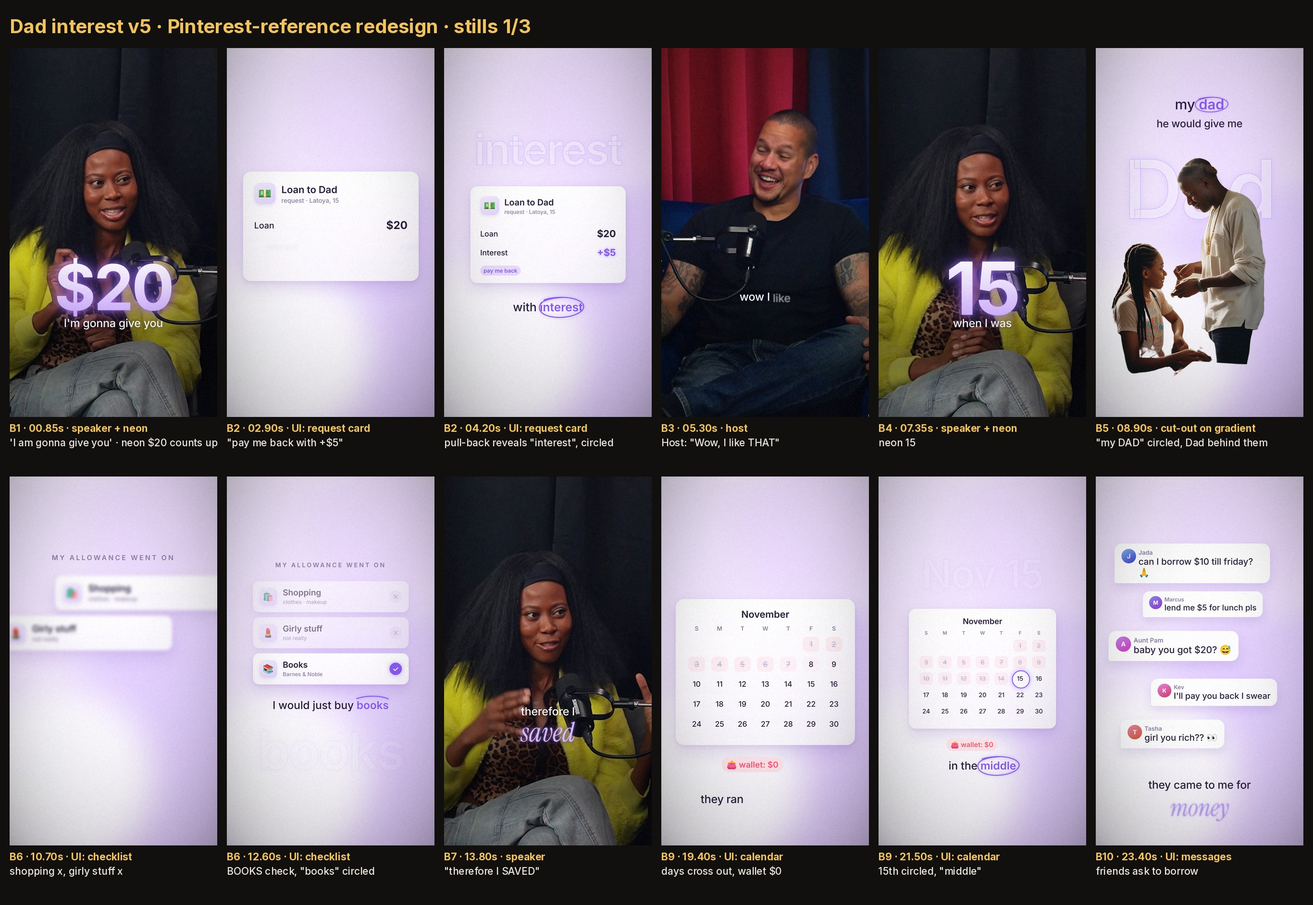
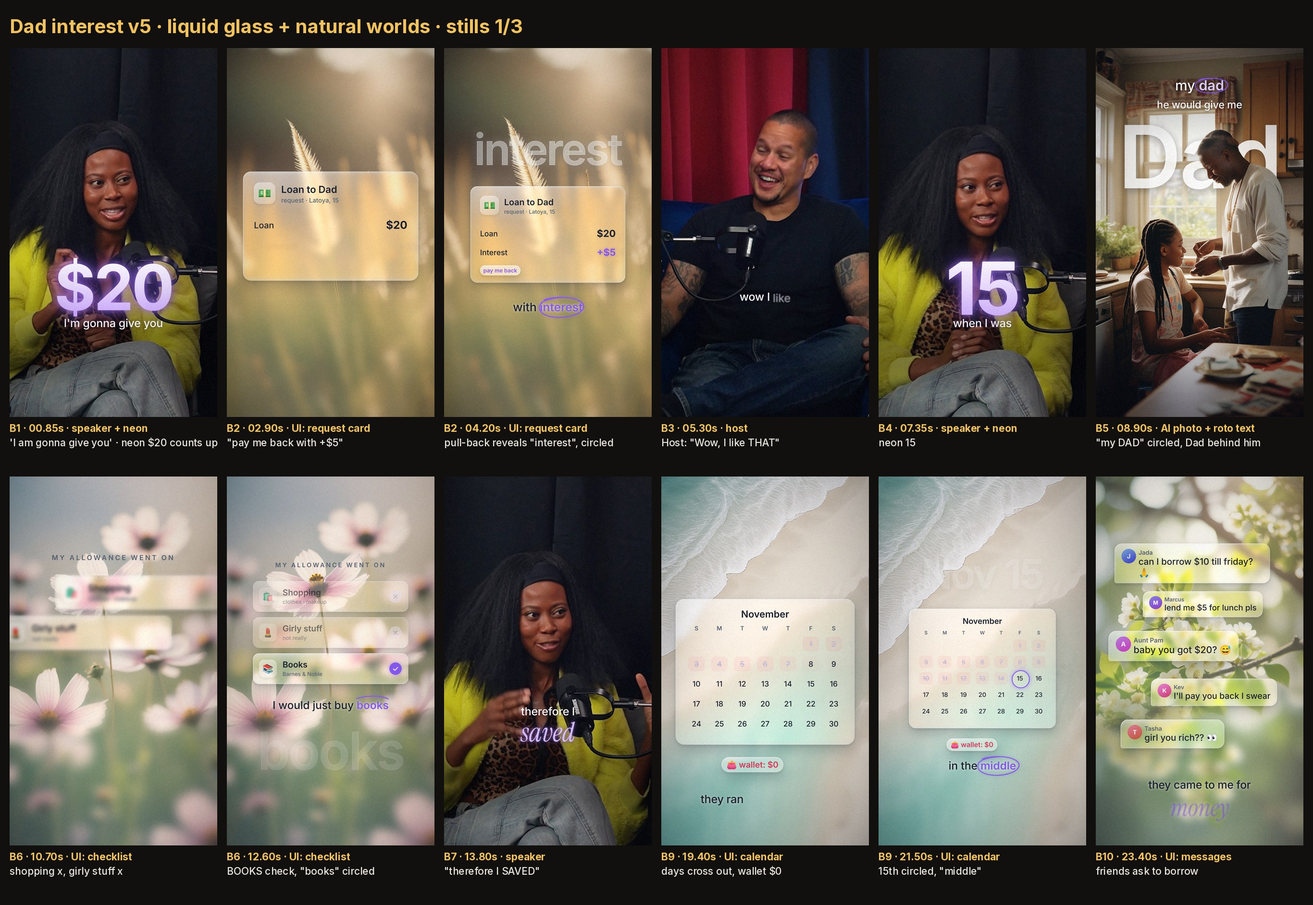
Dad interest v5.1: liquid-glass UI on natural worlds (sun/water/flowers), AI photos keep their original background with text behind the subject
Claude-Session: https://claude.ai/code/session_01Bj9t4fKydWJK4WnbPdQGjW

diff --git a/edits/dad-interest/v5/scenes_v5.js b/edits/dad-interest/v5/scenes_v5.js
@@ -6,17 +6,65 @@
 //  * a hand-drawn circle draws itself around the one keyword
 //  * over the speaker: small light captions and one glowing neon word/number
 // Helpers (el, line, reveal, chunkVis, tw, run, eo, eio, back, lerp, clamp, LEAD, mulberry) come from scenes.js / scenes2.js.
-const V = { ink: '#2A2140', soft: '#8D7FA8', faint: '#B9ABD3', violet: '#8B5CF6', violet2: '#B48CFF', lilac: '#E9DCFF', red: '#FF5A78', green: '#22B573', white: '#FFFFFF' };
+const V = { ink: '#1D2230', soft: '#5B6575', faint: '#A7B0BE', violet: '#8B5CF6', violet2: '#B48CFF', lilac: '#E9DCFF', red: '#FF5A78', green: '#22B573', white: '#FFFFFF' };
 const ex = u => { u = clamp(u); return u === 1 ? 1 : 1 - Math.pow(2, -10 * u); };          // expo-out: fast start, long soft landing
 const sio = u => 0.5 - 0.5 * Math.cos(Math.PI * clamp(u));                               // sine in-out for camera moves
 
 // ------------------------------------------------------------------ world + camera
-function world() {
-  el('div', { position: 'absolute', inset: '0', background: 'linear-gradient(165deg, #FDFBFF 0%, #F4ECFF 38%, #EADBFF 70%, #E1CCFB 100%)' });
-  const blobs = [[200, 420, 520, '#F2E6FF'], [880, 1300, 620, '#E3CFFF'], [300, 1600, 480, '#FFFFFF'], [820, 300, 420, '#EEDCFF']].map(([x, y, r, c]) =>
-    el('div', { position: 'absolute', left: x - r + 'px', top: y - r + 'px', width: 2 * r + 'px', height: 2 * r + 'px', borderRadius: '50%', background: c, filter: 'blur(90px)', opacity: '.9' }));
+// v5.1 (client notes): natural wallpapers (sun / water / flowers) instead of the lavender gradient; every white layer is liquid glass
+const NATURE = { v_request: 'sun', v_list: 'flower', v_calendar: 'water', v_msgs: 'leaves', v_loans: 'sun', v_drawer: 'flower', v_invoice: 'water', v_declined: 'water' };
+function world(bg = NATURE[NAME] || 'sun') {
+  const wall = el('img', { position: 'absolute', left: '-60px', top: '-107px', width: '1200px', height: '2134px', objectFit: 'cover', transformOrigin: '50% 45%' }); wall.src = `assets/nature/${bg}.jpg`;
+  el('div', { position: 'absolute', inset: '0', background: 'radial-gradient(120% 70% at 50% 55%, rgba(255,255,255,.10), rgba(255,255,255,0) 70%), linear-gradient(180deg, rgba(255,255,255,.06), rgba(0,0,0,.06))' });
+  const frost = 'linear-gradient(180deg, transparent 0%, #000 38%, #000 100%)';                   // soft frosted band behind the captions
+  el('div', { position: 'absolute', left: '0', right: '0', top: '1020px', bottom: '0', backdropFilter: 'blur(22px) brightness(1.12) saturate(1.1)', WebkitBackdropFilter: 'blur(22px) brightness(1.12) saturate(1.1)',
+    background: 'linear-gradient(180deg, rgba(255,255,255,0), rgba(255,255,255,.22))', maskImage: frost, WebkitMaskImage: frost });
   const cam = el('div', { position: 'absolute', left: '0', top: '0', width: '1080px', height: '1920px', transformOrigin: '540px 900px' });
-  return { cam, drift: t => blobs.forEach((b, i) => { b.style.transform = `translate(${40 * Math.sin(t * 0.5 + i * 1.7)}px, ${30 * Math.cos(t * 0.4 + i)}px)`; }) };
+  return { cam, drift: t => { wall.style.transform = `scale(${1 + 0.012 * t}) translate(${6 * Math.sin(t * 0.35)}px, ${-4 * t}px)`; } };
+}
+// photo world for the AI stills: the ORIGINAL background, the word goes behind the subject (person matte on top)
+function photoWorld(name) {
+  PHOTO = true;
+  const cam = el('div', { position: 'absolute', left: '0', top: '0', width: '1080px', height: '1920px', transformOrigin: '540px 900px' });
+  const bg = el('img', { position: 'absolute', left: '0', top: '0', width: '1080px', height: '1920px' }, cam); bg.src = `assets/photo_${name}.jpg`;
+  const back = el('div', { position: 'absolute', inset: '0' }, cam);                                     // words behind the subject
+  const fg = el('img', { position: 'absolute', left: '0', top: '0', width: '1080px', height: '1920px' }, cam); fg.src = `assets/matte_${name}.png`;
+  const scrim = el('div', { position: 'absolute', inset: '0', background: 'linear-gradient(180deg, rgba(10,8,20,.42) 0%, rgba(10,8,20,0) 26%, rgba(10,8,20,0) 70%, rgba(10,8,20,.45) 100%)' });
+  const front = el('div', { position: 'absolute', left: '0', top: '0', width: '1080px', height: '1920px', transformOrigin: '540px 900px' });  // UI + captions above
+  return { cam, back, front, drift: () => {} };
+}
+let PHOTO = false;
+const INK = () => PHOTO ? '#FFFFFF' : V.ink;
+const ISH = () => PHOTO ? '0 2px 18px rgba(10,8,20,.55)' : '0 1px 14px rgba(255,255,255,.75)';
+// ------------------------------------------------------------------ liquid glass (Apple-style): clear lens with refracted rim, specular edge, soft depth
+let GLN = 0, DEFS = null;
+function lensMap(w, h, r, edge) {
+  const k = 3, cw = Math.max(2, Math.round(w / k)), ch = Math.max(2, Math.round(h / k)), cv = document.createElement('canvas'); cv.width = cw; cv.height = ch;
+  const g = cv.getContext('2d'), im = g.createImageData(cw, ch), hw = w / 2, hh = h / 2; r = Math.min(r, hw, hh);
+  for (let j = 0; j < ch; j++) for (let i = 0; i < cw; i++) {
+    const px = (i + 0.5) * k - hw, py = (j + 0.5) * k - hh, qx = Math.abs(px) - (hw - r), qy = Math.abs(py) - (hh - r);
+    let nx, ny, d;
+    if (qx > 0 && qy > 0) { const L = Math.hypot(qx, qy) || 1; nx = qx / L * Math.sign(px); ny = qy / L * Math.sign(py); d = r - L; }
+    else if (qx > qy) { nx = Math.sign(px); ny = 0; d = r - qx; } else { nx = 0; ny = Math.sign(py); d = r - qy; }
+    const f = d < edge ? Math.pow(1 - Math.max(0, d) / edge, 2) : 0, o = (j * cw + i) * 4;
+    im.data[o] = 128 - 127 * nx * f; im.data[o + 1] = 128 - 127 * ny * f; im.data[o + 2] = 128; im.data[o + 3] = 255;
+  }
+  g.putImageData(im, 0, 0); return cv.toDataURL();
+}
+function glass(e, { r = 40, tint = 0.26, blur = 16, edge = 46, bend = 60, color = '255,255,255', glow = '' } = {}) {
+  const w = e.offsetWidth, h = e.offsetHeight, id = 'lg' + (GLN++), NS = 'http://www.w3.org/2000/svg';
+  if (!DEFS) { DEFS = document.createElementNS(NS, 'svg'); DEFS.setAttribute('width', '0'); DEFS.setAttribute('height', '0'); DEFS.style.position = 'absolute'; document.body.appendChild(DEFS); }
+  const f = document.createElementNS(NS, 'filter'); f.setAttribute('id', id); f.setAttribute('color-interpolation-filters', 'sRGB');
+  ['x', 'y'].forEach(a => f.setAttribute(a, '0')); f.setAttribute('filterUnits', 'userSpaceOnUse'); f.setAttribute('width', w); f.setAttribute('height', h);
+  f.innerHTML = `<feImage href="${lensMap(w, h, r, edge)}" x="0" y="0" width="${w}" height="${h}" preserveAspectRatio="none" result="m"/>` +
+    `<feDisplacementMap in="SourceGraphic" in2="m" scale="${bend}" xChannelSelector="R" yChannelSelector="G"/>`;
+  DEFS.appendChild(f);
+  Object.assign(e.style, { background: `linear-gradient(160deg, rgba(${color},${tint + 0.16}) 0%, rgba(${color},${tint}) 42%, rgba(${color},${tint + 0.08}) 100%)`, border: 'none',
+    backdropFilter: `url(#${id}) blur(${blur}px) saturate(1.7) brightness(1.08)`, WebkitBackdropFilter: `url(#${id}) blur(${blur}px) saturate(1.7) brightness(1.08)`,
+    boxShadow: `inset 2.5px 2.5px 1px -1px rgba(255,255,255,.95), inset -2px -2px 1px -1px rgba(255,255,255,.6), inset 0 0 0 1.5px rgba(255,255,255,.28), inset 0 18px 30px -22px rgba(255,255,255,.7), inset 0 -24px 40px -30px rgba(255,255,255,.45)${glow}, 0 30px 60px rgba(10,25,35,.20), 0 6px 18px rgba(10,25,35,.12)` });
+  const sheen = el('div', { position: 'absolute', inset: '0', borderRadius: 'inherit', pointerEvents: 'none', background: 'radial-gradient(90% 60% at 18% 0%, rgba(255,255,255,.38), rgba(255,255,255,0) 60%)', mixBlendMode: 'screen' }, e);
+  e.insertBefore(sheen, e.firstChild);
+  return e;
 }
 function camera(cam, t, keys) {          // keys: [[t, scale, x, y], ...] eased with sine in-out between keys
   let k = keys[0];
@@ -30,17 +78,16 @@ function camera(cam, t, keys) {          // keys: [[t, scale, x, y], ...] eased 
 }
 // ------------------------------------------------------------------ UI pieces
 function card(parent, { x = 90, y, w = 900, h, r = 40 }) {
-  return el('div', { position: 'absolute', left: x + 'px', top: y + 'px', width: w + 'px', height: h + 'px', borderRadius: r + 'px',
-    background: 'linear-gradient(180deg, rgba(255,255,255,.96), rgba(252,249,255,.92))', border: '1.5px solid rgba(255,255,255,.9)',
-    boxShadow: '0 40px 80px rgba(110,70,170,.16), 0 8px 22px rgba(110,70,170,.10)' }, parent);
+  return glass(el('div', { position: 'absolute', left: x + 'px', top: y + 'px', width: w + 'px', height: h + 'px', borderRadius: r + 'px' }, parent), { r });
 }
 function txt(parent, s, x, y, css = {}) { return el('div', Object.assign({ position: 'absolute', left: x + 'px', top: y + 'px', font: '500 40px Inter, sans-serif', color: V.ink, whiteSpace: 'pre' }, css), parent, s); }
-function chip(parent, s, x, y, { bg = V.lilac, fg = V.violet, size = 34 } = {}) {
-  return el('div', { position: 'absolute', left: x + 'px', top: y + 'px', padding: `${size * 0.3}px ${size * 0.6}px`, borderRadius: '999px', background: bg, color: fg, font: `600 ${size}px Inter`, whiteSpace: 'nowrap' }, parent, s);
+function chip(parent, s, x, y, { bg = 'glass', fg = V.violet, size = 34, tint = '255,255,255' } = {}) {
+  const c = el('div', { position: 'absolute', left: x + 'px', top: y + 'px', padding: `${size * 0.3}px ${size * 0.6}px`, borderRadius: '999px', background: bg, color: fg, font: `600 ${size}px Inter`, whiteSpace: 'nowrap' }, parent, s);
+  return bg === 'glass' ? glass(c, { r: size, tint: 0.34, blur: 8, edge: size * 0.7, bend: 34, color: tint }) : c;
 }
-function icon(parent, glyph, x, y, s = 92, bg = 'linear-gradient(150deg,#F5EEFF,#E4D4FF)') {
+function icon(parent, glyph, x, y, s = 92, bg = 'linear-gradient(150deg,rgba(255,255,255,.55),rgba(255,255,255,.22))') {
   return el('div', { position: 'absolute', left: x + 'px', top: y + 'px', width: s + 'px', height: s + 'px', borderRadius: s * 0.28 + 'px', background: bg,
-    display: 'grid', placeItems: 'center', font: `${s * 0.5}px "Apple Color Emoji","Segoe UI Emoji","Noto Color Emoji",sans-serif`, boxShadow: '0 8px 18px rgba(110,70,170,.12)' }, parent, glyph);
+    display: 'grid', placeItems: 'center', font: `${s * 0.5}px "Apple Color Emoji","Segoe UI Emoji","Noto Color Emoji",sans-serif`, boxShadow: 'inset 1.5px 1.5px 1px -0.5px rgba(255,255,255,.95), inset 0 0 0 1px rgba(255,255,255,.35), 0 8px 18px rgba(10,25,35,.10)' }, parent, glyph);
 }
 function popIn(e, t, t0, d = 0.45, from = 0.7) { const u = (t - t0) / d; e.style.opacity = clamp(u * 2.2); e.style.transform = `scale(${lerp(from, 1, ex(u))})`; e.style.filter = `blur(${10 * (1 - ex(u))}px)`; }
 function rise(e, t, t0, d = 0.55, dy = 70) { const u = (t - t0) / d; e.style.opacity = clamp(u * 2); e.style.transform = `translateY(${dy * (1 - ex(u))}px)`; e.style.filter = `blur(${8 * (1 - ex(u))}px)`; }
@@ -48,13 +95,14 @@ function slideX(e, t, t0, d = 0.55, dx = 120) { const u = (t - t0) / d; e.style.
 // pale outline word that the pull-back reveals (the reference's "2025")
 function ghost(parent, s, y, size = 300) {
   return el('div', { position: 'absolute', left: '0', width: '1080px', top: y + 'px', textAlign: 'center', font: `600 ${size}px/1 Inter, sans-serif`, letterSpacing: '-8px',
-    color: 'rgba(255,255,255,.55)', WebkitTextStroke: '2.5px rgba(180,140,255,.55)', textShadow: '0 0 40px rgba(200,170,255,.45)' }, parent, s);
+    color: PHOTO ? 'rgba(255,255,255,.92)' : 'rgba(255,255,255,.62)', WebkitTextStroke: PHOTO ? '0' : '2px rgba(255,255,255,.9)',
+    textShadow: PHOTO ? '0 10px 40px rgba(10,8,20,.35)' : '0 6px 30px rgba(10,25,35,.18), 0 0 50px rgba(255,255,255,.4)' }, parent, s);
 }
 // small elegant line + a keyword with a hand-drawn circle that draws on
 function circled(parent, before, kw, y, { size = 64, tKw, color = V.violet } = {}) {
-  const box = el('div', { position: 'absolute', left: '0', width: '1080px', top: y + 'px', textAlign: 'center', font: `500 ${size}px Inter, sans-serif`, color: V.ink, whiteSpace: 'pre' }, parent);
+  const box = el('div', { position: 'absolute', left: '0', width: '1080px', top: y + 'px', textAlign: 'center', font: `500 ${size}px Inter, sans-serif`, color: INK(), textShadow: ISH(), whiteSpace: 'pre' }, parent);
   const a = el('span', {}, box, before + ' ');
-  const k = el('span', { position: 'relative', display: 'inline-block', color, fontWeight: '600' }, box, kw);
+  const k = el('span', { position: 'relative', display: 'inline-block', color: PHOTO ? '#E4D2FF' : color, fontWeight: '600' }, box, kw);
   const svg = document.createElementNS('http://www.w3.org/2000/svg', 'svg'); svg.setAttribute('viewBox', '0 0 200 100');
   Object.assign(svg.style, { position: 'absolute', left: '-22%', top: '-38%', width: '144%', height: '176%', overflow: 'visible' });
   const p = document.createElementNS('http://www.w3.org/2000/svg', 'path');
@@ -76,7 +124,7 @@ function countTo(e, text, t, t0, d = 0.6) { const n = +text.replace(/\D/g, ''), 
 function cutout(parent, src, { x, y, h }) {
   const im = el('img', { position: 'absolute', left: x + 'px', top: y + 'px', height: h + 'px', filter: 'drop-shadow(0 30px 40px rgba(90,50,150,.25))' }, parent); im.src = src; return im;
 }
-const smallCap = (parent, y, items, kwSize = 120) => line(parent, y, items.map(([w, t, kw]) => ({ w, t, css: kw ? { font: `italic 400 ${kwSize}px/1 "Instrument Serif", serif`, color: V.violet, textShadow: '0 0 18px rgba(170,120,255,.35)' } : { font: '500 54px Inter, sans-serif', color: V.ink, textShadow: 'none' } })));
+const smallCap = (parent, y, items, kwSize = 120) => line(parent, y, items.map(([w, t, kw]) => ({ w, t, css: kw ? { font: `italic 400 ${kwSize}px/1 "Instrument Serif", serif`, color: PHOTO ? '#E4D2FF' : V.violet, textShadow: PHOTO ? '0 0 16px rgba(185,140,255,.7), 0 4px 18px rgba(10,8,20,.5)' : '0 0 18px rgba(255,255,255,.8)' } : { font: '500 54px Inter, sans-serif', color: INK(), textShadow: ISH() } })));
 
 Object.assign(SCENES, {
   // ------------------------------------------------------------------ overlays on the speaker
@@ -110,13 +158,13 @@ Object.assign(SCENES, {
   },
   // ------------------------------------------------------------------ 7.64-9.23  "my dad, he would give me": dad + daughter cut out on the gradient, "dad" circled
   v_dad() {
-    const W0 = world(), C = W0.cam;
-    const g = ghost(C, 'Dad', 520, 420);
-    const im = cutout(C, 'assets/cut_dad_allowance.png', { x: 70, y: 560, h: 1140 });
-    const cap = circled(C, 'my', 'dad', 250, { tKw: tw('dad'), size: 72 });
-    const r = smallCap(C, 360, [['he', tw('he')], ['would', tw('would')], ['give', tw('give')], ['me', tw('me')]]);
-    return t => { W0.drift(t); camera(C, t, [[0, 1.08, 0, 40], [DUR, 1.0, 0, 0]]); rise(im, t, -0.05, 0.7, 160); popIn(g, t, 0.05, 0.8, 1.2); g.style.opacity = 0.85 * clamp(t / 0.6); cap(t, tw('my')); r(t); };
+    const W0 = photoWorld('dad_allowance'), C = W0.cam, F = W0.front;
+    const g = ghost(W0.back, 'Dad', 350, 440);
+    const cap = circled(F, 'my', 'dad', 150, { tKw: tw('dad'), size: 72 });
+    const r = smallCap(F, 262, [['he', tw('he')], ['would', tw('would')], ['give', tw('give')], ['me', tw('me')]]);
+    return t => { camera(C, t, [[0, 1.12, 0, 50], [DUR, 1.02, 0, 0]]); popIn(g, t, 0.05, 0.8, 1.2); g.style.opacity = 0.95 * clamp(t / 0.6); cap(t, tw('my')); r(t); };
   },
+
   // ------------------------------------------------------------------ 9.23-12.77  "allowance / I wasn't into shopping / I would just buy books": checklist rows
   v_list() {
     const W0 = world(), C = W0.cam;
@@ -156,7 +204,7 @@ Object.assign(SCENES, {
     }
     const ring = el('div', { position: 'absolute', width: '96px', height: '96px', borderRadius: '50%', border: `5px solid ${V.violet}`, boxShadow: '0 0 30px rgba(139,92,246,.55)' }, c);
     const k15 = 19; ring.style.left = (60 + (k15 % 7) * 110 - 8) + 'px'; ring.style.top = (180 + Math.floor(k15 / 7) * 96 - 12) + 'px';
-    const wallet = chip(C, '👛  wallet: $0', 330, 1380, { bg: '#FFE6EC', fg: V.red, size: 40 });
+    const wallet = chip(C, '👛  wallet: $0', 330, 1380, { fg: '#E23B5C', size: 40, tint: '255,225,232' });
     const tR = tw('ran'), tM = tw('middle');
     const cap = circled(C, 'in the', 'middle', 1500, { tKw: tM, size: 64 });
     const cap0 = smallCap(C, 1500, [['they', tw('they')], ['ran', tR], ['out', tw('out'), 1], ['of', tw('of')], ['money', tw('money')]]);
@@ -179,11 +227,11 @@ Object.assign(SCENES, {
     const msgs = [['Jada', 'can I borrow $10 till friday? 🙏', 120, 420, 0.0, 1.0], ['Marcus', 'lend me $5 for lunch pls', 260, 640, 0.35, 0.9], ['Aunt Pam', 'baby you got $20? 😅', 90, 860, 0.7, 1.05],
       ['Kev', 'I\'ll pay you back I swear', 300, 1080, 1.0, 0.95], ['Tasha', 'girl you rich?? 👀', 150, 1290, 1.3, 1.0]]
       .map(([n, m, x, y, d, s], i) => {
-        const b = el('div', { position: 'absolute', left: x + 'px', top: y + 'px', maxWidth: '700px', padding: '26px 34px', borderRadius: '36px 36px 36px 10px', background: 'rgba(255,255,255,.95)',
-          boxShadow: '0 24px 50px rgba(110,70,170,.16)', transformOrigin: 'left bottom' }, C);
+        const b = el('div', { position: 'absolute', left: x + 'px', top: y + 'px', maxWidth: '700px', padding: '26px 34px', borderRadius: '36px 36px 36px 10px', transformOrigin: 'left bottom' }, C);
         avatar5(b, n[0], 210 + i * 33);
         txt(b, n, 96, 0, { position: 'relative', left: '0', top: '0', font: '600 30px Inter', color: V.soft, paddingLeft: '84px' });
         txt(b, m, 0, 0, { position: 'relative', left: '0', top: '0', font: '500 44px Inter', paddingLeft: '84px', whiteSpace: 'normal' });
+        glass(b, { r: 36, tint: 0.24, blur: 10, edge: 36, bend: 40 });
         return [b, d, s];
       });
     const cap = smallCap(C, 1560, [['they', tw('they')], ['came', tw('came')], ['to', tw('to')], ['me', tw('me')], ['for', tw('for')]]);
@@ -218,28 +266,27 @@ Object.assign(SCENES, {
   },
   // ------------------------------------------------------------------ 30.50-32.27  "he knocked on my room door": dad cut out, knock knock
   v_knock() {
-    const W0 = world(), C = W0.cam;
-    const g = ghost(C, 'knock knock', 300, 160);
-    const im = cutout(C, 'assets/cut_dad_door.png', { x: 370, y: 470, h: 1080 });
-    const k1 = chip(C, 'knock', 120, 760, { size: 56, bg: '#fff', fg: V.violet }), k2 = chip(C, 'knock', 640, 980, { size: 56, bg: '#fff', fg: V.violet });
-    [k1, k2].forEach(k => k.style.boxShadow = '0 20px 40px rgba(110,70,170,.2)');
-    const cap = smallCap(C, 1600, [['he', tw('he')], ['knocked', tw('knocked')], ['on', tw('on')], ['my', tw('my')], ['room', tw('room')], ['door', tw('door'), 1]]);
+    const W0 = photoWorld('dad_door'), C = W0.cam, F = W0.front;
+    const g = ghost(W0.back, 'knock knock', 470, 170);
+    const k1 = chip(C, 'knock', 110, 820, { size: 56, fg: V.ink }), k2 = chip(C, 'knock', 700, 1040, { size: 56, fg: V.ink });
+    const cap = smallCap(F, 1640, [['he', tw('he')], ['knocked', tw('knocked')], ['on', tw('on')], ['my', tw('my')], ['room', tw('room')], ['door', tw('door'), 1]]);
     const tk = tw('knocked'), td = tw('door');
     return t => {
-      W0.drift(t);
       const shake = (tt) => (t > tt && t < tt + 0.25) ? 8 * Math.sin((t - tt) * 70) * (1 - (t - tt) / 0.25) : 0;
-      camera(C, t, [[0, 1.1, 0, 50], [DUR, 1.0, 0, 0]]); C.style.transform += ` translateX(${shake(tk) + shake(td)}px)`;
-      rise(im, t, -0.05, 0.7, 180); popIn(k1, t, tk - 0.05, 0.35, 0.4); popIn(k2, t, td - 0.05, 0.35, 0.4);
-      const u = (t - 0.1) / 0.9; g.style.opacity = 0.75 * clamp(u); g.style.transform = `scale(${lerp(1.2, 1, ex(u))})`;
+      camera(C, t, [[0, 1.14, 0, 60], [DUR, 1.03, 0, 0]]); C.style.transform += ` translateX(${shake(tk) + shake(td)}px)`;
+      popIn(k1, t, tk - 0.05, 0.35, 0.4); popIn(k2, t, td - 0.05, 0.35, 0.4);
+      const u = (t - 0.1) / 0.9; g.style.opacity = 0.95 * clamp(u); g.style.transform = `scale(${lerp(1.2, 1, ex(u))})`;
       cap(t);
     };
   },
+
   // ------------------------------------------------------------------ 34.49-38.52  "I went in my drawer and I started counting all my money": real money photos fly in as cards
   v_drawer() {
     const W0 = world(), C = W0.cam;
     const cards = [['assets/card_stash.jpg', 150, 360, -8, 0.0], ['assets/card_count.jpg', 520, 520, 7, 0.25], ['assets/card_allow.jpg', 230, 900, 4, 1.9], ['assets/card_cash_hand.jpg', 600, 1060, -6, 2.25]]
-      .map(([src, x, y, r, d]) => { const f = el('div', { position: 'absolute', left: x + 'px', top: y + 'px', width: '360px', height: '480px', borderRadius: '28px', overflow: 'hidden', border: '10px solid #fff',
-        boxShadow: '0 40px 70px rgba(90,50,150,.25)' }, C); const im = el('img', { width: '100%', height: '100%', objectFit: 'cover' }, f); im.src = src; return [f, r, d]; });
+      .map(([src, x, y, r, d]) => { const f = el('div', { position: 'absolute', left: x + 'px', top: y + 'px', width: '360px', height: '480px', borderRadius: '34px', padding: '16px', boxSizing: 'border-box' }, C);
+        glass(f, { r: 34, tint: 0.2, blur: 6, edge: 30, bend: 40 });
+        const im = el('img', { position: 'relative', width: '100%', height: '100%', objectFit: 'cover', borderRadius: '20px', display: 'block' }, f); im.src = src; return [f, r, d]; });
     const total = { style: {} };
     const cap = circled(C, 'I went in my', 'drawer', 1660, { tKw: tw('drawer'), size: 56 });
     const cap2 = smallCap(C, 1660, [['and', tw('and')], ['I', tw('i', 1)], ['started', tw('started')], ['counting', tw('counting'), 1]]);
@@ -288,13 +335,13 @@ Object.assign(SCENES, {
     avatar5(c, 'D', 25, 56, 56, 120);
     txt(c, 'Daddy', 200, 64, { font: '600 54px Inter' }); txt(c, 'paid back · payday', 200, 134, { font: '500 32px Inter', color: V.soft });
     txt(c, 'Loan', 56, 258, { font: '500 46px Inter' }); txt(c, '$20', 0, 250, { font: '700 58px Inter', left: 'auto', right: '56px' });
-    const ok = chip(c, '✓ paid', 330, 256, { size: 32, bg: '#E2F7EC', fg: V.green });
+    const ok = chip(c, '✓ paid', 330, 256, { size: 32, bg: 'rgba(34,181,115,.16)', fg: '#138A55' });
     txt(c, 'Interest', 56, 368, { font: '500 46px Inter' }); const five = txt(c, '+$5', 0, 360, { font: '700 58px Inter', left: 'auto', right: '56px', color: V.violet });
     const st = el('div', { position: 'absolute', right: '44px', top: '398px', width: '150px', height: '8px', borderRadius: '4px', background: V.red, transformOrigin: 'left center' }, c);
-    const n = el('div', { position: 'absolute', left: '120px', top: '1150px', width: '840px', padding: '30px 40px', boxSizing: 'border-box', borderRadius: '40px', background: 'rgba(255,255,255,.97)',
-      boxShadow: '0 0 0 2px rgba(255,90,120,.25), 0 0 60px rgba(255,90,120,.35), 0 24px 50px rgba(110,70,170,.18)', display: 'flex', gap: '26px', alignItems: 'center' }, C);
+    const n = el('div', { position: 'absolute', left: '120px', top: '1150px', width: '840px', padding: '30px 40px', boxSizing: 'border-box', borderRadius: '40px', display: 'flex', gap: '26px', alignItems: 'center' }, C);
     el('div', { width: '86px', height: '86px', borderRadius: '50%', background: '#FFE6EC', color: V.red, display: 'grid', placeItems: 'center', font: '700 48px Inter', flex: 'none' }, n, '✕');
     const nt = el('div', {}, n); el('div', { font: '700 46px Inter', color: V.ink }, nt, 'Interest declined'); el('div', { font: '500 32px Inter', color: V.soft }, nt, 'Daddy kept your $5');
+    glass(n, { r: 40, tint: 0.2, color: '255,235,240', glow: ', 0 0 0 2px rgba(255,90,120,.35), 0 0 60px rgba(255,90,120,.4)' });
     const W1 = el('div', { position: 'absolute', inset: '0' }, C), W2 = el('div', { position: 'absolute', inset: '0' }, C);
     const c1 = smallCap(W1, 1520, [['but', tw('but')], ['he', tw('he')], ["didn't", tw("didn't"), 1]]);
     const c2 = smallCap(W2, 1520, [['give', tw('give')], ['me', tw('me')], ['back', tw('back')], ['my', tw('my')], ['interest', tw('interest'), 1]]);
@@ -312,24 +359,22 @@ Object.assign(SCENES, {
   },
   // ------------------------------------------------------------------ 55.74-58.94  "so that was my first entrepreneurial business": her cut out, chips, pull back reveals FIRST BUSINESS
   v_first() {
-    const W0 = world(), C = W0.cam;
-    const g = ghost(C, 'first', 560, 330);
-    const g2 = ghost(C, 'business', 880, 210);
-    const im = cutout(C, 'assets/cut_teen_boss.png', { x: 300, y: 480, h: 1300 });
-    const chips = [['💸  Loans with interest', 70, 860, 0.5], ['📈  Est. age 15', 640, 1010, 0.8], ['🤝  Clients: friends + family', 60, 1170, 1.1]].map(([s, x, y, d]) => { const c = chip(C, s, x, y, { size: 36, bg: '#fff', fg: V.ink }); c.style.boxShadow = '0 18px 40px rgba(110,70,170,.18)'; return [c, d]; });
-    const cap = circled(C, 'so that was my', 'first', 230, { tKw: tw('first'), size: 58 });
-    const k = smallCap(C, 330, [['entrepreneurial', tw('entrepreneur'), 1], ['business', tw('business'), 1]], 92);
+    const W0 = photoWorld('teen_boss'), C = W0.cam, F = W0.front;
+    const g = ghost(W0.back, 'first', 370, 340);
+    const g2 = ghost(W0.back, 'business', 760, 200);
+    const chips = [['💸  Loans with interest', 60, 980, 0.5], ['📈  Est. age 15', 640, 1130, 0.8], ['🤝  Clients: friends + family', 70, 1290, 1.1]].map(([s, x, y, d]) => [chip(C, s, x, y, { size: 36, fg: V.ink }), d]);
+    const cap = circled(F, 'so that was my', 'first', 140, { tKw: tw('first'), size: 58 });
+    const k = smallCap(F, 236, [['entrepreneurial', tw('entrepreneur'), 1], ['business', tw('business'), 1]], 92);
     const tf = tw('first');
     return t => {
-      W0.drift(t);
-      camera(C, t, [[0, 1.1, 0, 60], [tf, 1.03, 0, 20], [DUR, 0.94, 0, 30]]);
-      rise(im, t, -0.05, 0.8, 200);
+      camera(C, t, [[0, 1.14, 0, 60], [tf, 1.08, 0, 20], [DUR, 1.01, 0, 0]]);
       chips.forEach(([c, d]) => popIn(c, t, d + tf - 0.2, 0.4, 0.6));
-      const u = (t - (tf - 0.2)) / 0.9; g.style.opacity = 0.85 * clamp(u); g.style.transform = `scale(${lerp(1.25, 1, ex(u))})`;
-      const v = (t - tw('business')) / 0.9; g2.style.opacity = 0.75 * clamp(v); g2.style.transform = `scale(${lerp(1.25, 1, ex(v))})`;
+      const u = (t - (tf - 0.2)) / 0.9; g.style.opacity = 0.95 * clamp(u); g.style.transform = `scale(${lerp(1.25, 1, ex(u))})`;
+      const v = (t - tw('business')) / 0.9; g2.style.opacity = 0.9 * clamp(v); g2.style.transform = `scale(${lerp(1.25, 1, ex(v))})`;
       cap(t, tw('so')); k(t);
     };
   },
+
 
   // ------------------------------------------------------------------ house captions over the A-roll: small, light, one glowing violet keyword (v5 look)
   caps() {

diff --git a/edits/dad-interest/v5/make_board.py b/edits/dad-interest/v5/make_board.py
@@ -5,14 +5,14 @@ HERE = os.path.dirname(os.path.abspath(__file__))
 FONT = os.path.join(HERE, '../../../video/fonts')
 STILLS = [  # v5 storyboard (Pinterest reference: lavender UI world, eased camera, push transitions)
     (0.85, 'B1', 'speaker + neon', "'I am gonna give you' · neon $20 counts up"), (2.90, 'B2', 'UI: request card', '"pay me back with +$5"'), (4.20, 'B2', 'UI: request card', 'pull-back reveals "interest", circled'),
-    (5.30, 'B3', 'host', 'Host: "Wow, I like THAT"'), (7.35, 'B4', 'speaker + neon', 'neon 15'), (8.90, 'B5', 'cut-out on gradient', '"my DAD" circled, Dad behind them'),
+    (5.30, 'B3', 'host', 'Host: "Wow, I like THAT"'), (7.35, 'B4', 'speaker + neon', 'neon 15'), (8.90, 'B5', 'AI photo + roto text', '"my DAD" circled, Dad behind him'),
     (10.70, 'B6', 'UI: checklist', 'shopping x, girly stuff x'), (12.60, 'B6', 'UI: checklist', 'BOOKS check, "books" circled'), (13.80, 'B7', 'speaker', '"therefore I SAVED"'),
     (19.40, 'B9', 'UI: calendar', 'days cross out, wallet $0'), (21.50, 'B9', 'UI: calendar', '15th circled, "middle"'), (23.40, 'B10', 'UI: messages', 'friends ask to borrow'),
     (24.90, 'B11', 'speaker CU', '"guess what I DID?"'), (28.30, 'B13', 'UI: loans', '+ interest chips, "interest" circled'), (29.10, 'B14', 'host', 'Host laughs'),
-    (31.90, 'B16', 'cut-out on gradient', 'dad: knock knock'), (34.10, 'B17', 'speaker + neon', '"I need" · neon $20'), (36.20, 'B18', 'UI: photo cards', 'real money photos fly in, "drawer"'),
+    (31.90, 'B16', 'AI photo + roto text', 'knock knock behind dad, glass chips'), (34.10, 'B17', 'speaker + neon', '"I need" · neon $20'), (36.20, 'B18', 'UI: photo cards', 'real money photos fly in, "drawer"'),
     (38.30, 'B18', 'UI: photo cards', '"started COUNTING"'), (40.00, 'B19', 'speaker CU', '"you still have all those MONEY?"'), (47.60, 'B21', 'UI: invoice', '"you owe me $20" (total counts)'),
     (49.50, 'B21', 'UI: invoice', '+$5 = $25, pull-back reveals "$25"'), (54.30, 'B23', 'UI: declined', 'interest declined, red glow'), (55.40, 'B24', 'speaker CU', "'I am like COME ON'"),
-    (57.60, 'B25', 'cut-out on gradient', '"my FIRST" circled, chips'), (61.30, 'B27', 'speaker + neon', 'neon ENTREPRENEURSHIP'), (1.95, 'T', 'push transition', 'vertical push + motion blur'),
+    (57.60, 'B25', 'AI photo + roto text', 'FIRST behind her, glass chips'), (61.30, 'B27', 'speaker + neon', 'neon ENTREPRENEURSHIP'), (1.95, 'T', 'push transition', 'vertical push + motion blur'),
 ]
 if '--compose' in sys.argv:
     subprocess.run([sys.executable, os.path.join(HERE, 'build.py'), '--still', ','.join(f'{t:.2f}' for t, *_ in STILLS)], check=True)
@@ -23,7 +23,7 @@ pages = [STILLS[i:i + 12] for i in range(0, len(STILLS), 12)]
 for p, items in enumerate(pages, 1):
     rows = (len(items) + COLS - 1) // COLS
     im = Image.new('RGB', (COLS * (TW + 20) + 20, rows * (TH + LH + 20) + 100), (18, 16, 15)); d = ImageDraw.Draw(im)
-    d.text((20, 30), f'Dad interest v5 · Pinterest-reference redesign · stills {p}/{len(pages)}', font=f(700, 40), fill=(242, 195, 91))
+    d.text((20, 30), f'Dad interest v5 · liquid glass + natural worlds · stills {p}/{len(pages)}', font=f(700, 40), fill=(242, 195, 91))
     for k, (t, beat, scene, label) in enumerate(items):
         x, y = 20 + (k % COLS) * (TW + 20), 100 + (k // COLS) * (TH + LH + 20)
         key = min(files, key=lambda v: abs(v - t))

diff --git a/edits/dad-interest/v5/tools/gen_nature.py b/edits/dad-interest/v5/tools/gen_nature.py
@@ -1,0 +1,31 @@
+"""Natural wallpapers for the liquid-glass UI scenes (sun / water / flower), SDXL base + SDXL-Lightning 4-step, bf16 on CPU.
+    python3 tools/gen_nature.py [name ...]  -> assets/nature/<name>_<seed>.png (768x1344)"""
+import os, sys, time, torch
+from diffusers import StableDiffusionXLPipeline, UNet2DConditionModel, EulerDiscreteScheduler
+from huggingface_hub import hf_hub_download
+from safetensors.torch import load_file
+HERE = os.path.dirname(os.path.abspath(__file__)); OUT = os.path.join(HERE, '../assets/nature')
+LOOK = 'nature photograph, soft natural light, airy, bright, pastel tones, shallow depth of field, calm, minimal, high detail, shot on medium format film'
+JOBS = {
+    'sun':    'warm morning sun glowing through soft tall meadow grass, gentle lens flare, creamy golden bokeh, pale sky',
+    'water':  'clear shallow turquoise sea water seen from above, soft sunlight caustics rippling on white sand, gentle ripples',
+    'flower': 'soft white and blush pink cosmos flowers swaying in sunlight against a pale blue sky, dreamy bokeh',
+    'leaves': 'sunlight filtering through fresh green leaves and white blossoms, soft sun rays, light sky, dreamy bokeh',
+}
+NEG = 'text, watermark, logo, people, person, animal, dark, gloomy, oversaturated, cartoon, illustration, 3d render, frame, border'
+want = sys.argv[1:] or list(JOBS)
+torch.set_num_threads(4)
+base = 'stabilityai/stable-diffusion-xl-base-1.0'
+unet = UNet2DConditionModel.from_config(base, subfolder='unet')
+unet.load_state_dict(load_file(hf_hub_download('ByteDance/SDXL-Lightning', 'sdxl_lightning_4step_unet.safetensors'), device='cpu'))
+unet = unet.to(torch.bfloat16)
+pipe = StableDiffusionXLPipeline.from_pretrained(base, unet=unet, torch_dtype=torch.bfloat16, variant='fp16', use_safetensors=True)
+pipe.vae.config.force_upcast = False
+pipe.scheduler = EulerDiscreteScheduler.from_config(pipe.scheduler.config, timestep_spacing='trailing')
+os.makedirs(OUT, exist_ok=True)
+for name in want:
+    for seed in (7, 42):
+        t0 = time.time()
+        img = pipe(prompt=f'{JOBS[name]}, {LOOK}', negative_prompt=NEG, num_inference_steps=4, guidance_scale=0, width=768, height=1344,
+                   generator=torch.Generator().manual_seed(seed)).images[0]
+        img.save(os.path.join(OUT, f'{name}_{seed}.png')); print(name, seed, round(time.time() - t0), 's', flush=True)

diff --git a/edits/dad-interest/v5/tools/make_mattes.py b/edits/dad-interest/v5/tools/make_mattes.py
@@ -1,0 +1,15 @@
+"""Full-frame photo + person matte for the roto scenes (text behind the subject on the ORIGINAL background).
+    python3 tools/make_mattes.py -> assets/photo_<name>.jpg + assets/matte_<name>.png (1080x1920, same registration)"""
+import os, cv2, numpy as np, onnxruntime as ort
+HERE = os.path.dirname(os.path.abspath(__file__)); ROOT = os.path.join(HERE, '../..')
+s = ort.InferenceSession(os.path.join(ROOT, 'models/modnet.onnx'), providers=['CPUExecutionProvider']); n = s.get_inputs()[0].name
+for name in ('dad_allowance', 'dad_door', 'teen_boss'):
+    img = cv2.imread(os.path.join(ROOT, 'v4/src/ai', name + '.png'))[..., :3]
+    H, W = img.shape[:2]
+    x = cv2.resize(img[..., ::-1], (544, 960), interpolation=cv2.INTER_AREA).astype(np.float32) / 255
+    a = s.run(None, {n: ((x - 0.5) / 0.5).transpose(2, 0, 1)[None]})[0][0, 0]
+    a = cv2.resize(np.clip(a, 0, 1), (W, H), interpolation=cv2.INTER_CUBIC)
+    a = np.clip((a - 0.08) / 0.84, 0, 1)                                       # firm up the edge, keep soft hair
+    cv2.imwrite(os.path.join(HERE, '../assets', f'photo_{name}.jpg'), img, [cv2.IMWRITE_JPEG_QUALITY, 92])
+    cv2.imwrite(os.path.join(HERE, '../assets', f'matte_{name}.png'), np.dstack([img, (a * 255).astype(np.uint8)]))
+    print(name, W, H)
